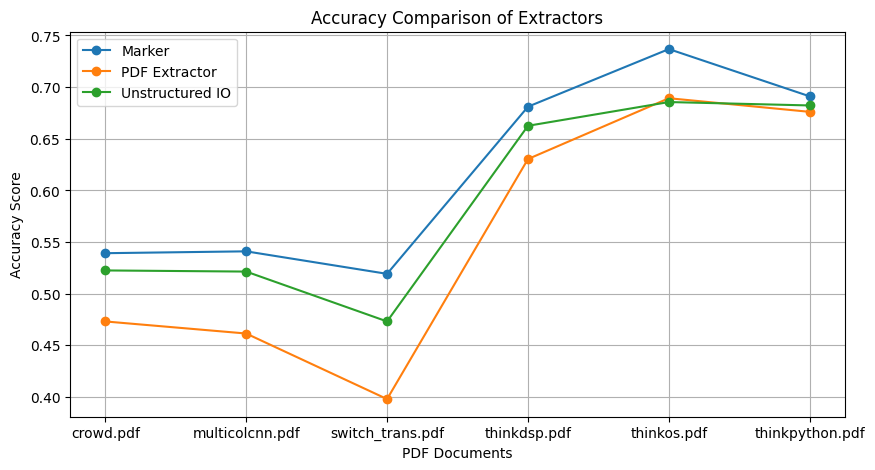
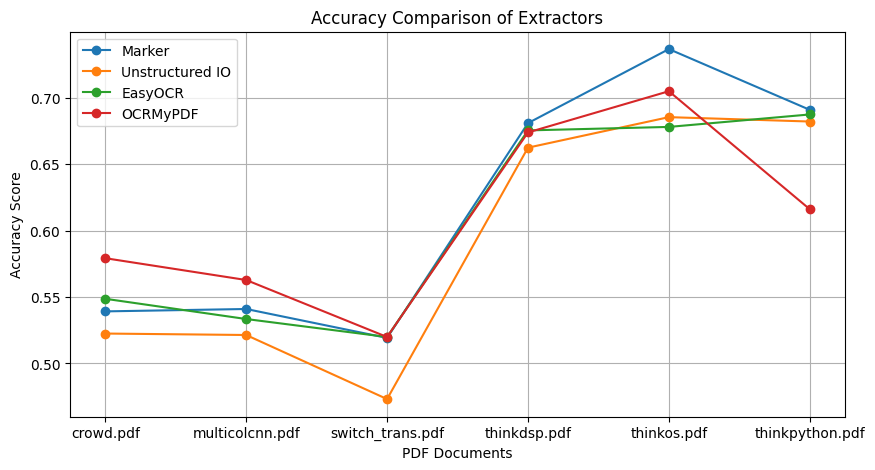
remove pdf extractor result and include easyocr and ocrmypdf

diff --git a/docs/docs/usecases/pdf_extraction.md b/docs/docs/usecases/pdf_extraction.md
@@ -184,25 +184,25 @@ PDF is a complex data type, we recommend you try out all extractors on a represe
 
 ### Accuracy Comparison
 
-| PDF Document          | Marker Score | PDF Extractor Score | Unstructured IO Score |
-|-----------------------|--------------|---------------------|-----------------------|
-| crowd.pdf             | 0.5391       | 0.4730              | 0.5224                |
-| multicolcnn.pdf       | 0.5409       | 0.4613              | 0.5213                |
-| switch_trans.pdf      | 0.5191       | 0.3978              | 0.4730                |
-| thinkdsp.pdf          | 0.6810       | 0.6303              | 0.6625                |
-| thinkos.pdf           | 0.7368       | 0.6892              | 0.6855                |
-| thinkpython.pdf       | 0.6910       | 0.6760              | 0.6822                |
+| PDF Document          | Marker Score | Unstructured IO Score | EasyOCR Score        | OCRmyPDF Score       |
+|-----------------------|--------------|-----------------------|----------------------|----------------------|
+| crowd.pdf             | 0.5391       | 0.5224                | 0.5486               | 0.5792               |
+| multicolcnn.pdf       | 0.5409       | 0.5213                | 0.5333               | 0.5627               |
+| switch_trans.pdf      | 0.5191       | 0.4730                | 0.5198               | 0.5198               |
+| thinkdsp.pdf          | 0.6810       | 0.6625                | 0.6755               | 0.6740               |
+| thinkos.pdf           | 0.7368       | 0.6855                | 0.6781               | 0.7050               |
+| thinkpython.pdf       | 0.6910       | 0.6822                | 0.6875               | 0.6161               |
 
 ### Time Taken Comparison
 
-| PDF Document          | Marker Time (s) | PDF Extractor Time (s) | Unstructured IO Time (s) |
-|-----------------------|------------------|------------------------|--------------------------|
-| crowd.pdf             | 21.65            | 8.08                   | 2.44                     |
-| multicolcnn.pdf       | 17.91            | 5.19                   | 1.64                     |
-| switch_trans.pdf      | 45.90            | 16.84                  | 5.35                     |
-| thinkdsp.pdf          | 139.80           | 28.07                  | 29.10                    |
-| thinkos.pdf           | 84.04            | 6.57                   | 4.88                     |
-| thinkpython.pdf       | 217.60           | 22.20                  | 21.00                    |
+| PDF Document          | Marker Time (s) | Unstructured IO Time (s) | EasyOCR Time (s)     | OCRmyPDF Time (s)    |
+|-----------------------|------------------|--------------------------|----------------------|----------------------|
+| crowd.pdf             | 21.65            | 2.44                     | 14.18                | 5.44                 |
+| multicolcnn.pdf       | 17.91            | 1.64                     | 31.00                | 22.40                |
+| switch_trans.pdf      | 45.90            | 5.35                     | 0.14                 | 4.10                 |
+| thinkdsp.pdf          | 139.80           | 29.10                    | 17.37                | 20.59                |
+| thinkos.pdf           | 84.04            | 4.88                     | 0.13                 | 5.70                 |
+| thinkpython.pdf       | 217.60           | 21.00                    | 4.03                 | 13.96                |
 
 ### Visual Comparisons
 
@@ -217,19 +217,22 @@ PDF is a complex data type, we recommend you try out all extractors on a represe
 ### Detailed Analysis and Insights
 
 **Accuracy**: 
-   - Overall, the Marker extractor consistently provides high accuracy scores across all PDF documents.
-   - The Unstructured IO extractor also performs well, often close to the accuracy of the Marker extractor.
-   - The PDF Extractor delivers reliable accuracy, with scores that are generally competitive with the other extractors.
+   - Marker extractor consistently provides high accuracy scores across all PDF documents.
+   - Unstructured IO extractor performs well, often close to the accuracy of the Marker extractor.
+   - EasyOCR shows competitive accuracy, particularly strong in "crowd.pdf" and "thinkpython.pdf".
+   - OCRmyPDF delivers reliable accuracy, leading in "crowd.pdf" and "thinkos.pdf".
 
 **Time Efficiency**:
-   - The Unstructured IO extractor is the fastest, taking the least time for all PDF documents.
-   - The PDF Extractor is moderately fast, providing a good balance between speed and accuracy.
-   - The Marker extractor, despite providing high accuracy, is significantly slower compared to the other two extractors.
+   - Unstructured IO extractor is the fastest, taking the least time for all PDF documents.
+   - EasyOCR shows extreme variability in processing times, being exceptionally fast for some documents and very slow for others.
+   - Marker extractor, despite providing high accuracy, is significantly slower compared to the other extractors.
+   - OCRmyPDF shows moderate time efficiency, balancing between speed and accuracy.
 
 **Extractor Recommendations**:
    - **Marker Extractor**: Use when accuracy is the primary concern and processing time is less critical. Ideal for scenarios requiring detailed and precise text extraction.
-   - **PDF Extractor**: Use for a balanced approach where both accuracy and speed are important. Suitable for applications needing quick results without compromising much on accuracy.
    - **Unstructured IO Extractor**: Use when speed is the primary concern. Perfect for real-time applications or scenarios where quick extraction is essential.
+   - **EasyOCR**: Suitable for applications needing variable but often high accuracy with extreme processing time differences.
+   - **OCRmyPDF**: Balanced approach where both accuracy and speed are important, especially for documents where OCR is needed.
 
 ### Additional Comparisons
 
